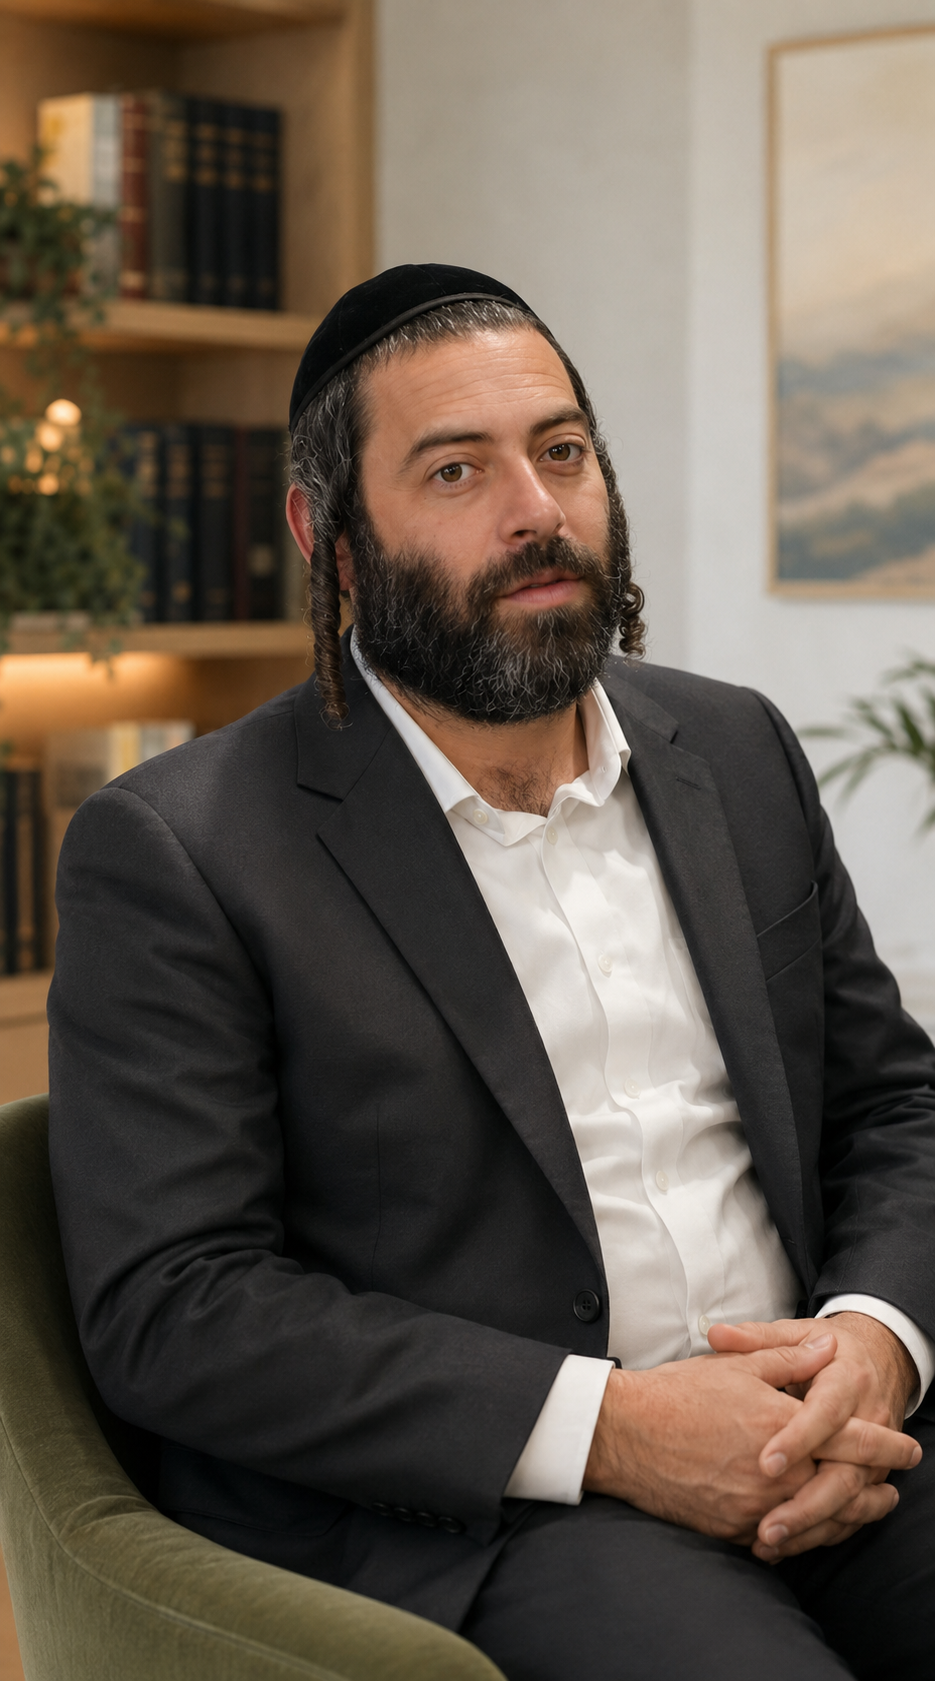
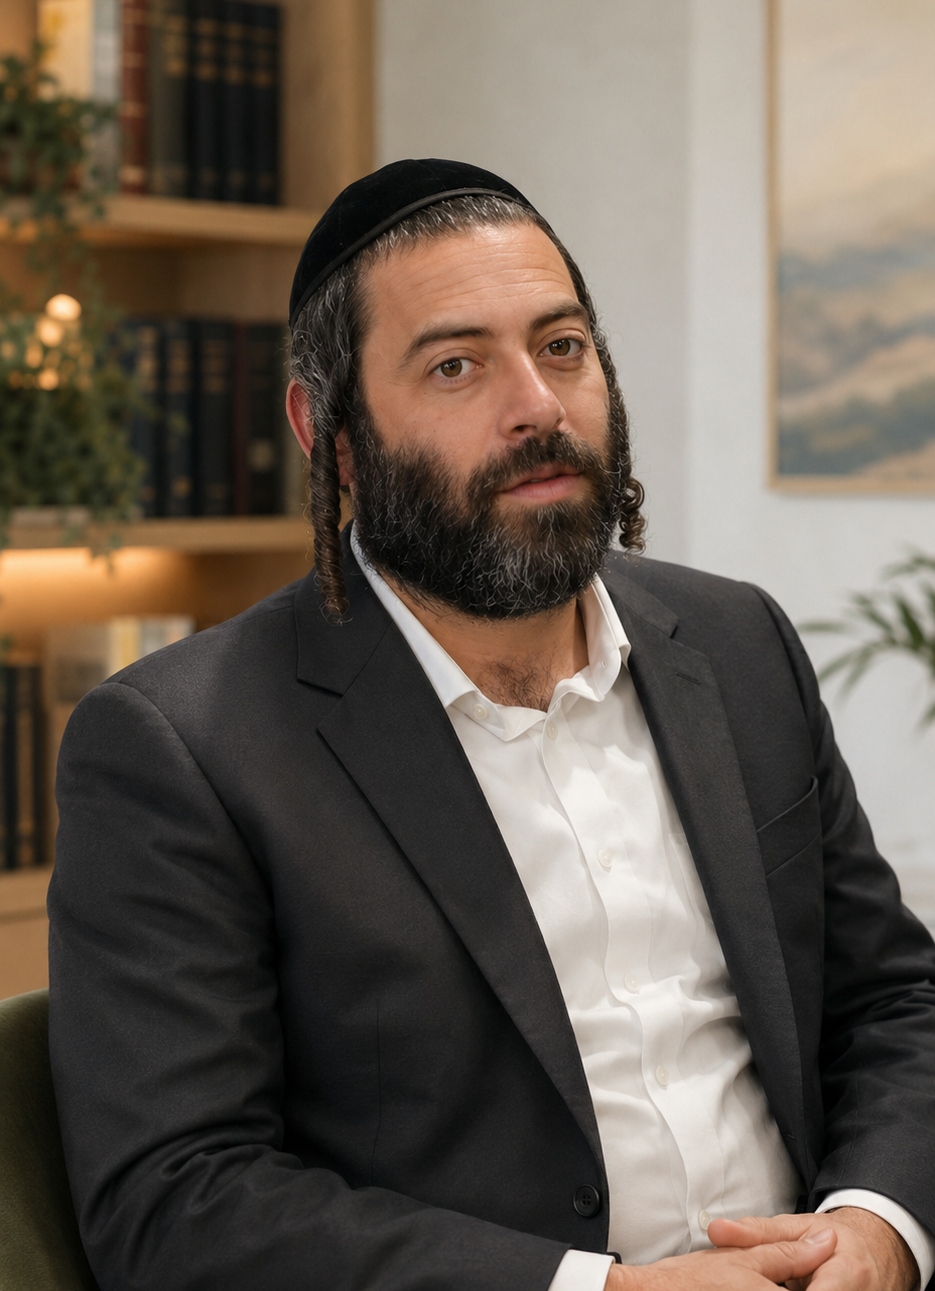
Add files via upload

diff --git a/index.html b/index.html
@@ -71,7 +71,7 @@
             </div>
           </div>
           <figure class="portrait-wrap" aria-label="פורטרט מקצועי">
-            <img src="yossi-gafner-portrait.png" alt="יוסי גפנר">
+            <img src="./assets/yossi-gafner-portrait.png" alt="יוסי גפנר, מטפל בהתמכרויות" />
           </figure>
         </div>
       </section>